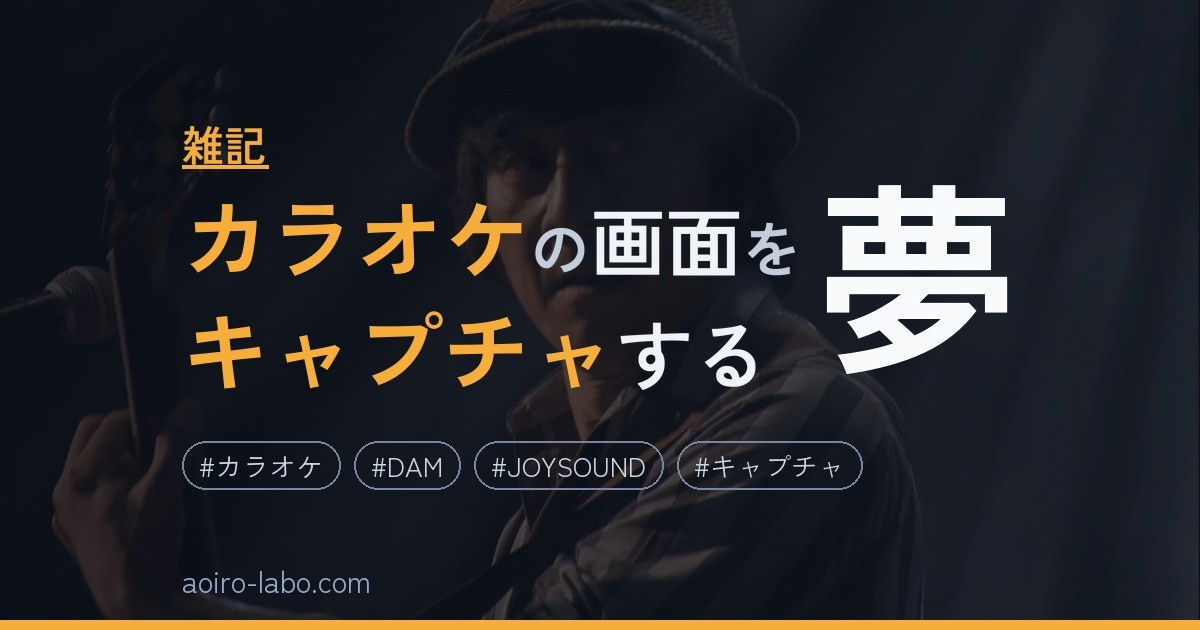
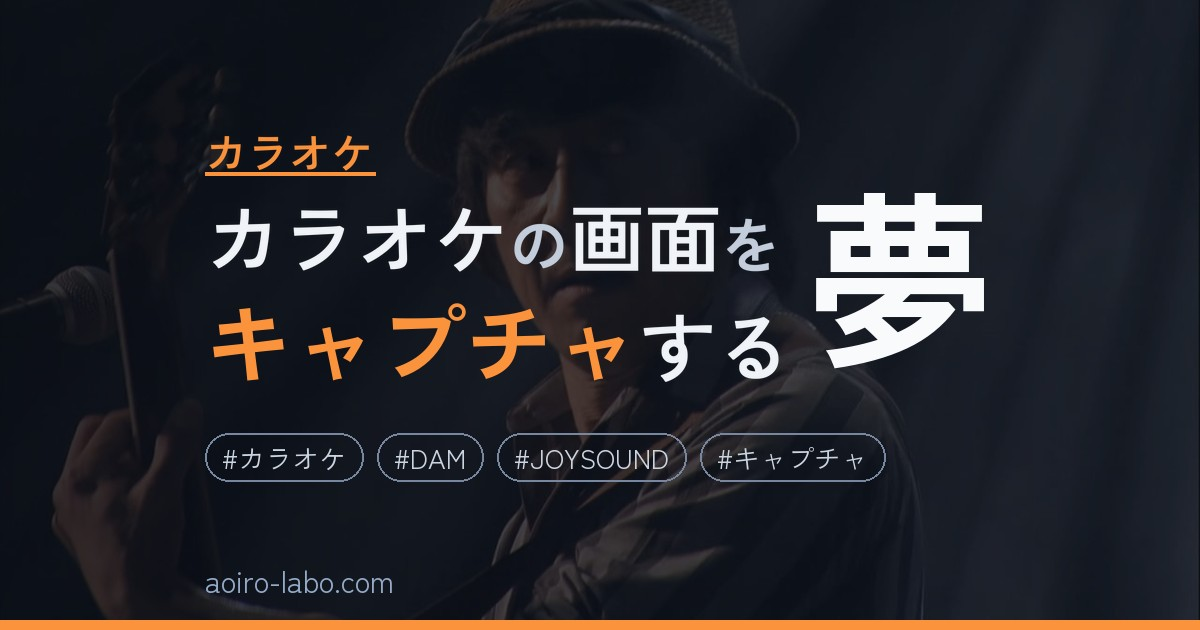
記事のカテゴリを題材ごとに細分化して1記事1カテゴリに統一

diff --git a/tools/generate_cover.py b/tools/generate_cover.py
@@ -72,7 +72,7 @@ MARGIN=64
 WHITE=(248,250,252)
 BASE=(240,244,248)
 SUBC=(196,205,219)
-CAT_COLORS={'開発':(168,140,250),'雑記':(246,173,58)}
+CAT_COLORS={'開発':(168,140,250),'雑記':(246,173,58),'テレビ':(251,113,133),'映画':(96,165,250),'音楽':(232,121,249),'フォント':(64,178,250),'競馬':(52,211,153),'サブスク':(246,173,58),'カラオケ':(251,146,60),'サイト':(100,180,255),'映像・音声':(45,212,191)}
 PALETTE=[(64,178,250),(52,211,153),(251,113,133),(96,165,250),(232,121,249)]
 def accent_for(cat):
     if cat in CAT_COLORS: return CAT_COLORS[cat]

diff --git a/content/posts/2026-11-21-karaoke-capture.md b/content/posts/2026-11-21-karaoke-capture.md
@@ -10,7 +10,7 @@ date: 2026-11-21T12:00:00+09:00
 draft: true
 summary: "カラオケ（DAMとJOYSOUND）の画面をキャプチャボードで録画する構成と手順。映像はHDMI分配器経由。音声はDAMならアンプのヘッドフォン端子などから別に取り、JOYSOUND MAX GO以降ならHDMIで一緒に取れる。"
 tags: ["カラオケ", "DAM", "JOYSOUND", "キャプチャ"]
-categories: ["雑記"]
+categories: ["カラオケ"]
 ---
 
 カラオケの画面を、歌詞テロップごとそのまま録画したい。結論から書くと、デジタル出力であれば基本問題ない（HDCPさえなんとかすれば）、アナログ出力は変換噛ませればいける。

diff --git a/content/posts/2026-11-26-asobi-channel-archive.md b/content/posts/2026-11-26-asobi-channel-archive.md
@@ -10,7 +10,7 @@ date: 2026-11-26T18:30:00+09:00
 draft: true
 summary: "ASOBI CHANNELのサービス終了発表で、2026年6月に「引き続き視聴可能」と案内されていたシャニラジのアーカイブが公開終了となる。発端のPHP脆弱性「PHP2Shell」と実装から見えた設計の古さ、公式案内の変遷と利用者側に残された手段を整理する"
 categories:
-    - 雑記
+    - サブスク
 tags:
     - ASOBI CHANNEL
     - アイドルマスター

diff --git a/content/posts/2026-11-02-ザ・ロイヤルファミリーの競走馬戦績を特定する.md b/content/posts/2026-11-02-ザ・ロイヤルファミリーの競走馬戦績を特定する.md
@@ -10,8 +10,7 @@ date: 2026-11-02T00:00:00+09:00
 draft: true
 summary: 劇中の出馬表、実況、netkeibaの特設ページ、実際のJRA開催記録から、ロイヤルファイトやロイヤルイザーニャなどの戦績を整理する。
 categories:
-    - テレビ
-    - 検証
+    - 競馬
 tags:
     - ザ・ロイヤルファミリー
     - 競馬

diff --git a/content/posts/2026-08-24-BDの字幕書体を特定してみる.md b/content/posts/2026-08-24-BDの字幕書体を特定してみる.md
@@ -11,7 +11,6 @@ draft: true
 summary: 手持ちの円盤に焼き込まれた字幕・テロップのフォントを見比べて特定していくログ。随時追記予定。
 categories:
     - フォント
-    - 検証
 tags:
     - フォント
     - BD

diff --git a/content/posts/2026-01-01-媒体ごとによる映像配信サービスの比較.md b/content/posts/2026-01-01-媒体ごとによる映像配信サービスの比較.md
@@ -12,8 +12,7 @@ date: 2026-01-03T05:15:21.967Z
 draft: true
 summary: テレビ、サブスク、円盤などの画質や音質を比較してみる
 categories:
-    - 比較
-    - 検証
+    - 映像・音声
 tags:
     - テレビ
     - ネット配信

diff --git a/content/posts/2026-08-22-新幹線大爆破の時系列と場所を整理する記事.md b/content/posts/2026-08-22-新幹線大爆破の時系列と場所を整理する記事.md
@@ -11,7 +11,6 @@ draft: true
 summary: 劇中の時計・発車標・空撮などから、事件発生前の時系列と撮影地を整理してみる
 categories:
     - 映画
-    - 検証
 tags:
     - Netflix
     - 検証

diff --git a/content/posts/2026-11-21-fantia-backnumber.md b/content/posts/2026-11-21-fantia-backnumber.md
@@ -12,7 +12,7 @@ cover: "/images/cover-fantia-backnumber.jpg"
 images:
     - "/images/cover-fantia.jpg"
 categories:
-    - 雑記
+    - サブスク
 tags:
     - Fantia
     - サブスクリプション

diff --git a/content/posts/2026-03-11-テレビを彩る名曲たち.md b/content/posts/2026-03-11-テレビを彩る名曲たち.md
@@ -9,6 +9,6 @@ aliases:
 date: 2026-03-11T00:00:00+09:00
 draft: true
 summary: ""
-categories: []
+categories: ["音楽"]
 tags: []
 ---
